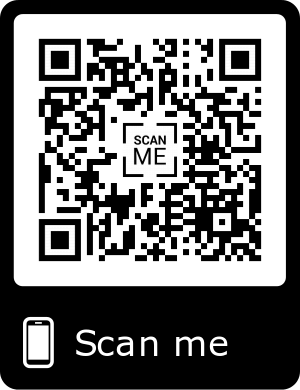
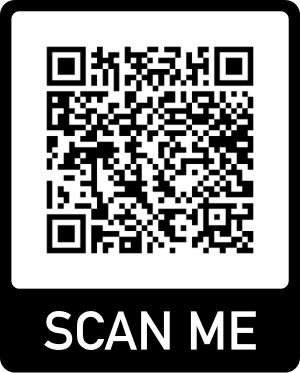
fall 2019 kickoff

diff --git a/index.html b/index.html
@@ -9,7 +9,7 @@
   <meta name="author" content="">
   <link rel="icon" type="image/ico" href="img/logo.png">
 
-  <title>UMKC Hackathon Spring 2019</title>
+  <title>UMKC Hackathon Fall 2019</title>
 
   <!-- Bootstrap core CSS -->
   <link href="vendor/bootstrap/css/bootstrap.min.css" rel="stylesheet">
@@ -35,7 +35,7 @@
   <div class="container">
     <!--  <a class="navbar-brand js-scroll-trigger" href="#page-top">UMKC Hackathon</a> -->
      <img class="navbar-brand js-scroll-trigger" style="margin-right: 0px;" src="img/UMKC_logo.png" width="100" height="70"/></a>
-     
+
     <div class="collapse navbar-collapse" id="navbarResponsive">
       <ul class="navbar-nav ml-auto">
         <li class="nav-item">
@@ -254,7 +254,7 @@
     <h2 class="text-white mb-5">Scan Code to Register</h2>
 <!--     <hr class="my-4" align="center"> -->
    <!-- <a href="https://docs.google.com/forms/d/e/1FAIpQLSd2LnIMIaxUYt7MVDkzh14S_5Qdlp87ZmdSE4Js3np3w34ISA/alreadyresponded">Click to register</a>
--->  
+-->
 </div>
   <img src="img/UseCaseRegistrationSpring19.png" width="260" height="390" align="center">
 </section>
@@ -289,7 +289,7 @@
         </h3>
         <p>
           5:30PM - 7:00PM<br>
-          Thursday, April 4, 2019<br>
+          Thursday, Nov 7th, 2019<br>
         </p>
       </div>
       <div style="border: 1px solid #ddd; padding: 20px; margin: 30px; border-radius: 5px;">
@@ -299,7 +299,7 @@
         </h3>
         <p>
           5:30PM - 7:00PM<br>
-          Monday, April 15, 2019<br>
+          Monday, Nov 18th, 2019<br>
         </p>
       </div>
       <div style="border: 1px solid #ddd; padding: 20px; margin: 30px; border-radius: 5px;">
@@ -308,7 +308,7 @@
           Facebook
         </h3>
         <p>
-          <a href="https://www.facebook.com/events/525719574542969/" class="button is-primary" target="_blank">Event page</a>
+          <a href="https://facebook.com/events/2447017298875485/" class="button is-primary" target="_blank">Event page</a>
         </p>
       </div>
     </div>
@@ -392,7 +392,7 @@
     </div>
   </div>
 </section>
-<section  id="quiz" style="background-color: #f4416b;" >
+<!--<section  id="quiz" style="background-color: #f4416b;" >
     <div class="container">
         <div class="row">
             <div class="col-lg-8 mx-auto text-center">
@@ -427,12 +427,12 @@
       </div>
   </div>
 </section>
-
+-->
 <section id="judges" style="background-color: #c69500;">
   <div class="container">
     <div class="row">
       <div class="col-lg-12 text-center">
-        <h2 class="section-heading">Judges Spring'19</h2>
+        <h2 class="section-heading">Judges Fall'19</h2>
 <!--         <hr class="my-4"> -->
       </div>
     </div>
@@ -461,6 +461,7 @@
           </p>
         </div>
       </div>
+
       <div class="col-md-3" style="text-align: center">
         <figure>
           <img alt="Mohamud Abdi" class="user-photo photo_image image-replacement" src="img/judges/Mohamud Abdi.jpg">
@@ -676,7 +677,7 @@
     <hr class="my-hr">
     <div class="row">
       <div class="col-md-4" >
-         <h5 class="ft"> 04th APR @ 5:30 PM</h5>
+         <h5 class="ft"> 07th Nov @ 5:30 PM</h5>
       </div>
       <div class="col-md-4">
          <h5 class="ft"> KICK OFF</h5>
@@ -689,7 +690,7 @@
     <hr class="my-hr">
     <div class="row">
       <div class="col-md-4" >
-        <h5 class="ft"> 04th APR @ 7PM- 9PM</h5>
+        <h5 class="ft"> 07th Nov @ 7PM- 9PM</h5>
       </div>
       <div class="col-md-4">
         <h5 class="ft"> REGISTRATION</h5>
@@ -698,11 +699,11 @@
         <h5 class="ft"> ONLINE</h5>
       </div>
     </div>
-    
+
     <hr class="my-hr">
     <div class="row">
       <div class="col-md-4" >
-        <h5 class="ft"> 5th to 7th APR from 9AM- 6PM</h5>
+        <h5 class="ft"> 8th to 10th NOV from 9AM- 6PM</h5>
       </div>
       <div class="col-md-4">
         <h5 class="ft"> CODING DAYS</h5>
@@ -711,12 +712,12 @@
         <h5 class="ft"> Flarsheim Hall 557</h5>
       </div>
     </div>
-    
+
 
     <hr class="my-hr">
     <div class="row">
       <div class="col-md-4" >
-        <h5 class="ft"> 7th APR by 11:59 PM</h5>
+        <h5 class="ft"> 10th Nov by 11:59 PM</h5>
       </div>
       <div class="col-md-4">
         <h5 class="ft"> SUBMISSION</h5>
@@ -730,7 +731,7 @@
     <hr class="my-hr">
     <div class="row">
       <div class="col-md-4" >
-        <h5 class="ft"> 15th APR @ 5:30 PM</h5>
+        <h5 class="ft"> 18th NOV @ 5:30 PM</h5>
       </div>
       <div class="col-md-4">
         <h5 class="ft"> GRAND FINALE</h5>
@@ -744,7 +745,7 @@
     <hr class="my-hr">
     <div class="row">
       <div class="col-md-4" >
-         <h5 class="ft"> 15th APR @ 7:00 PM</h5>
+         <h5 class="ft"> 18th NOV @ 7:00 PM</h5>
       </div>
       <div class="col-md-4">
          <h5 class="ft"> NETWORKING</h5>
@@ -762,7 +763,7 @@
 <section class="bg-dark text-white" id="usecases">
   <div class="row" style="margin: 0px;">
     <div class="col-lg-12 text-center">
-      <h2 class="section-heading">Usecases Spring'19</h2>
+      <h2 class="section-heading">Old Usecases - Spring'19</h2>
        <h4 class="section-heading">Select atleast one Usecase from Industry (starting with I) and E-scholar (starting with E)</h2>
 <!--       <hr class="my-4"> -->
     </div>
@@ -831,15 +832,15 @@
       <a target="_blank" href="#"><button class="btn-sty">E4-EScholar-TransistionAcademy-UseCase</button></a>
     </div>
   </div><br><br><br>
-  <div class="row" style="margin-left: 100px; margin-bottom: 10px ">
+<!--  <div class="row" style="margin-left: 100px; margin-bottom: 10px ">
    <h4 class="section-heading">Please check the assigned Usecase for your team below</h4>
 <img src="img/usecaseassignmentSpring19_2.png" alt="Assigned Teams" width="1200" height="600">
- 
+
 </section>
 
 
 
-<!-- <section id="contact">
+ <section id="contact">
    <div class="container">
      <div class="row">
        <div class="col-lg-8 mx-auto text-center">
@@ -876,7 +877,7 @@
           <div class="col-md-6">
             <h5 class="font-italic">Dr. Yugyung Lee</h5>
             <h5 class="font-italic">Mayanka ChandraShekhar</h5>
-            <h5 class="font-italic">Rohith Kumar</h5>
+            <h5 class="font-italic">Shiva Kumar</h5>
             <h5 class="font-italic">Vijaya Kumari </h5>
             <h5 class="font-italic">Saria Goudzarvand</h5>
             <h5 class="font-italic">Syed Khushal Shah</h5>
@@ -887,13 +888,12 @@
           </div>
           <div class="col-md-6">
             <h5 class="font-italic">Gharib Gharibi</h5>
-            <h5 class="font-italic">Ruthvic Punyamurtula</h5>
+            <h5 class="font-italic">Raj Marri</h5>
             <h5 class="font-italic">Jawad Sayed</h5>
-            <h5 class="font-italic">Sravanthi Gogadi</h5>
-            <h5 class="font-italic">Bhargavi Nadendla</h5>
+            <h5 class="font-italic">Duy Ho</h5>
             <h5 class="font-italic">Sirisha Rella</h5>
             <h5 class="font-italic">Rakan Alanazi</h5>
-            
+
           </div>
         </div>
       </div>
